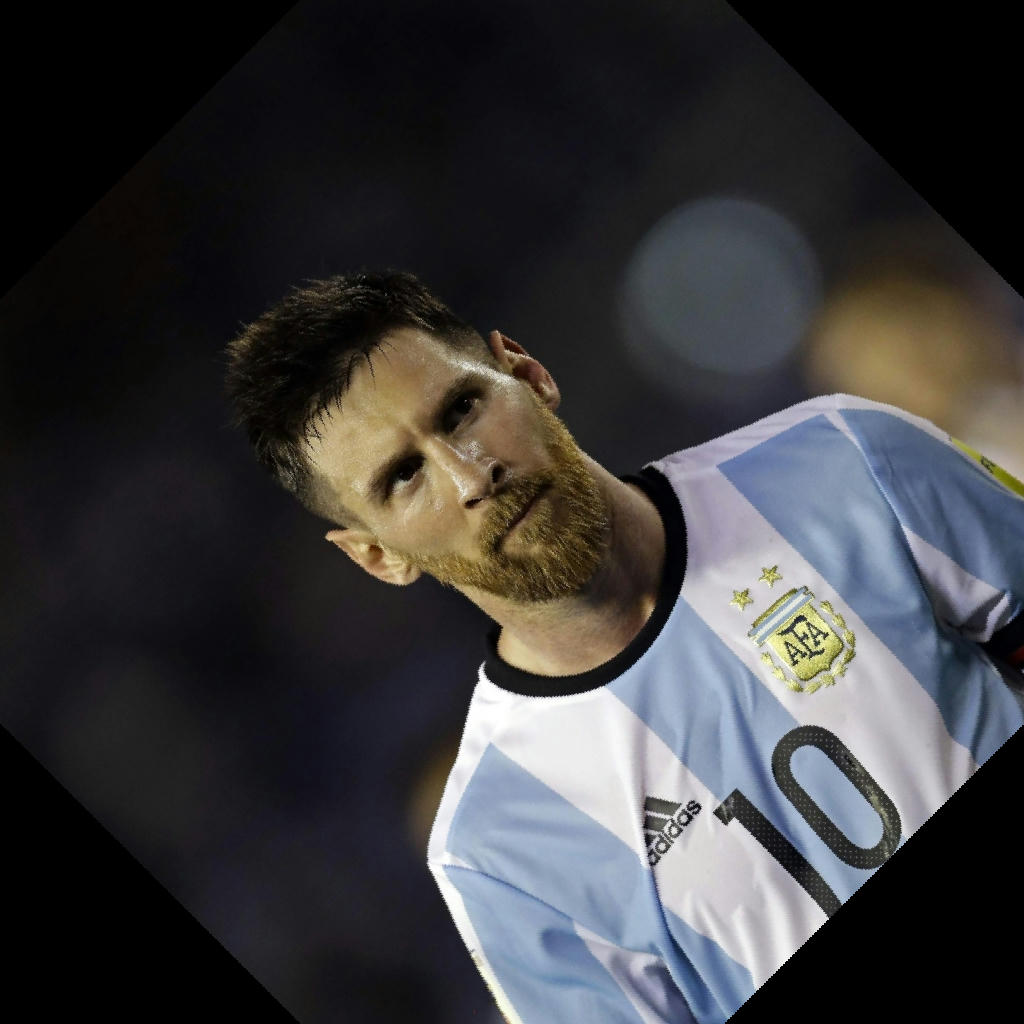
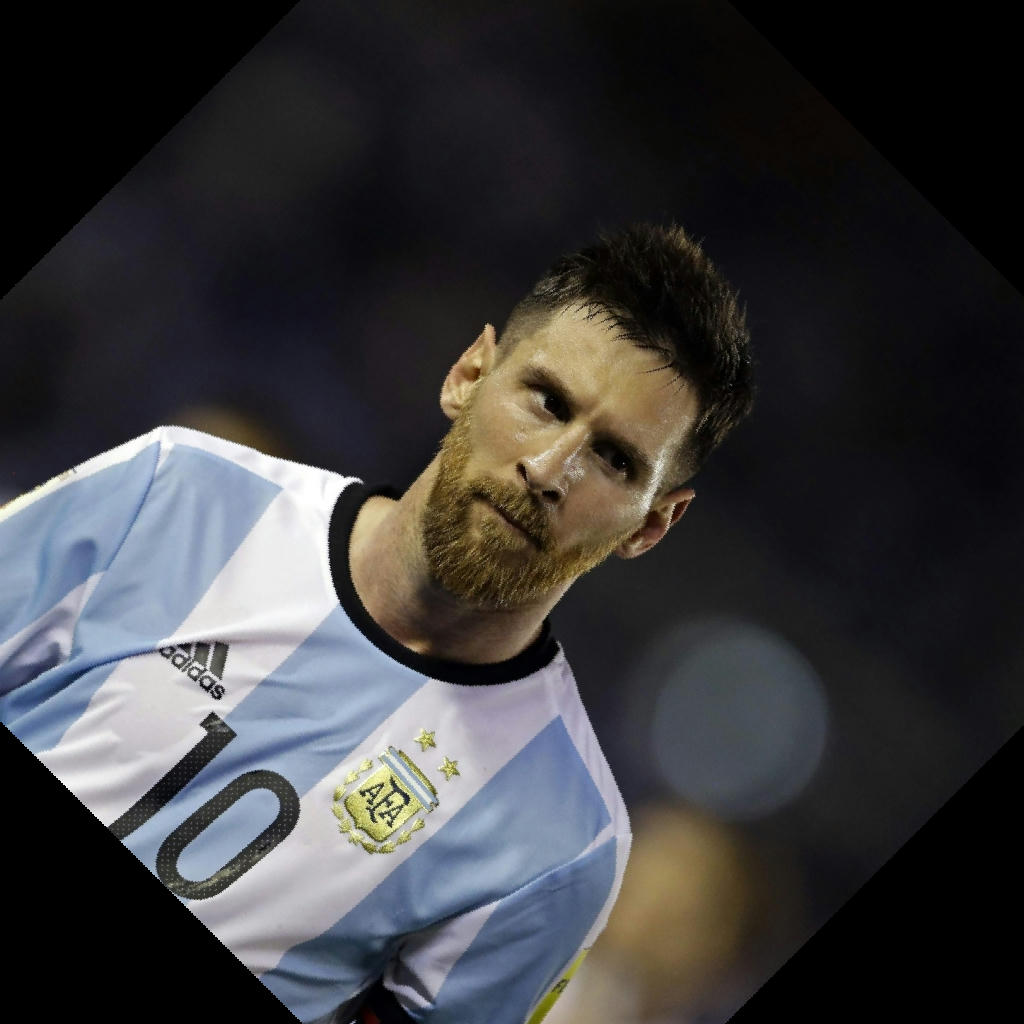
Rotation by column and row

diff --git a/src/task.rs b/src/task.rs
@@ -7,9 +7,10 @@ pub trait Task: Send {
 }
 
 pub struct ShearTask {
-    row: i32,
-    start: i32,
-    end: i32,
+    start_y: i32,
+    end_y: i32,
+    start_x: i32,
+    end_x: i32,
     pivot_x: i32,
     pivot_y: i32,
     angle: f64,
@@ -22,9 +23,10 @@ pub struct PoisonPill;
 
 impl ShearTask {
     pub fn new(
-        row: i32,
-        start: i32,
-        end: i32,
+        start_y: i32,
+        end_y: i32,
+        start_x: i32,
+        end_x: i32,
         pivot_x: i32,
         pivot_y: i32,
         angle: f64,
@@ -34,9 +36,10 @@ impl ShearTask {
         destiny: Arc<Mutex<ImageBuffer<Rgba<u8>, Vec<u8>>>>,
     ) -> Self {
         Self {
-            row,
-            start,
-            end,
+            start_y,
+            end_y,
+            start_x,
+            end_x,
             pivot_x,
             pivot_y,
             angle,
@@ -60,7 +63,35 @@ impl Task for ShearTask {
         let tan_half_angle = (self.angle / 2.0).tan();
         let mut destiny = self.destiny.lock().unwrap();
         let origin = self.origin.lock().unwrap();
-        for x in self.start..self.end {
+
+        for y in self.start_y..self.end_y {
+            for x in self.start_x..self.end_x {
+                let x_tmp =
+                (tan_half_angle * (y - self.pivot_y) as f64 + x as f64).round() as i32;
+
+                let y_final =
+                    ((-sin_angle) * (x_tmp - self.pivot_x) as f64 + y as f64).round() as i32 - 1;
+                let x_final = (tan_half_angle * (y_final - self.pivot_y) as f64 + x_tmp as f64).round()
+                as i32
+                + 1;
+
+            if x_final >= 0
+                && x_final < self.max_width as i32
+                && y_final >= 0
+                && y_final < self.max_height as i32
+            {
+                let pixel = origin.get_pixel(x as u32, y as u32).clone();
+                destiny.put_pixel(x_final as u32, y_final as u32, pixel);
+            }
+            }
+        }
+
+        
+        Ok(())
+    }
+}
+
+/*for x in self.start..self.end {
             let x_tmp =
                 (tan_half_angle * (self.row - self.pivot_y) as f64 + x as f64).round() as i32;
             let y_final =
@@ -77,10 +108,7 @@ impl Task for ShearTask {
                 let pixel = origin.get_pixel(x as u32, self.row as u32).clone();
                 destiny.put_pixel(x_final as u32, y_final as u32, pixel);
             }
-        }
-        Ok(())
-    }
-}
+        }*/
 
 /*let x_tmp = ((self.angle / 2.0).tan() * (y - pivot_y) as f64 + x as f64).round() as i32;
 let y_final =

diff --git a/src/rotator.rs b/src/rotator.rs
@@ -34,9 +34,36 @@ impl Rotator {
         let start = SystemTime::now().duration_since(UNIX_EPOCH).unwrap();
         let mut thread_pool = ThreadPool::new(64, 16);
 
+        let regions_per_column = (height as f32 / REGION_SIZE as f32).ceil() as i32;
         let regions_per_row = (width as f32 / REGION_SIZE as f32).ceil() as i32;
 
-        for row in 0..height {
+        for y in 0..regions_per_column {
+            for x in 0..regions_per_row {
+                let start_x = x * REGION_SIZE;
+                let end_x = (start_x + REGION_SIZE).min(width as i32);
+
+                let start_y = y * REGION_SIZE;
+                let end_y = (start_y + REGION_SIZE).min(height as i32);
+
+                let task = ShearTask::new(
+                    start_y,
+                    end_y,
+                    start_x,
+                    end_x,
+                    (width / 2) as i32,       // hardcode
+                    (height / 2) as i32,      // hardcode
+                    (-45 as f64).to_radians(), // hardcode
+                    width,
+                    height,
+                    Arc::clone(&origin_arc),
+                    Arc::clone(&destiny),
+                );
+
+                thread_pool.add_task(Box::new(task));
+            }
+        }
+
+        /*for row in 0..height {
             for x in 0..regions_per_row {
                 let start = x * REGION_SIZE;
                 let end = (start + REGION_SIZE).min(width as i32);
@@ -54,7 +81,7 @@ impl Rotator {
                 );
                 thread_pool.add_task(Box::new(task));
             }
-        }
+        }*/
 
         thread_pool.wait_for_workers_to_finish();
         destiny.lock().unwrap().save("./output.jpg").unwrap();
